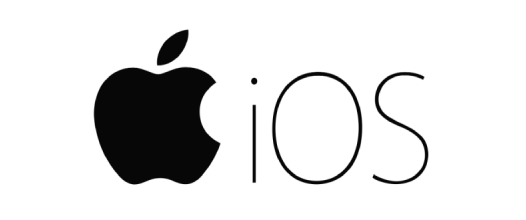
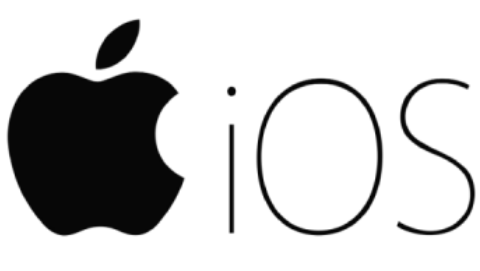
minor improvments

Changed region(s): [[0.0, 0.0545, 0.4375, 0.8727], [0.4688, 0.2727, 1.0, 0.8727], [0.4688, 0.3, 0.5, 0.3818]]

diff --git a/keynote_speakers.md b/keynote_speakers.md
@@ -15,7 +15,7 @@ group: Palestrantes convidados
     <td> 
         <strong> Palestra: </strong> <br> 
         <strong> Data: </strong> 2020-03-(a definir) <br> 
-        <a href="https://ce.berkeley.edu/people/faculty/soga"><img src="{{site.baseurl}}/images/speakers/Kenichi.jpg" style="height:90px;margin:15px 15px 15px 0px" title="Kenichi Soga " alt="Kenichi Soga"> </a> <strong>Kenichi Soga </strong>  <font color="#a9a9a9"> UC, Berkeley </font><br> 
+        <a href="https://ce.berkeley.edu/people/faculty/soga"><img src="{{site.baseurl}}/images/speakers/Kenichi.jpg" style="width:90px;margin:15px 15px 15px 0px" title="Kenichi Soga " alt="Kenichi Soga"> </a> <strong>Kenichi Soga </strong>  <font color="#a9a9a9"> UC, Berkeley </font><br> 
         <font color="#a9a9a9"> <a href="https://drive.google.com/open?id=17E5X7P_LzwwvHk2XWMrx4c5rMhaS4wp8">Biografia</a></font>   
     </td>
   </tr>
@@ -24,7 +24,7 @@ group: Palestrantes convidados
     <td> 
       <strong> Palestra: </strong> <br> 
       <strong> Data: </strong> 2020-03-(a definir) <br>  
-      <img src="{{site.baseurl}}/images/speakers/Keynote-speaker-icon.png" style="height:90px;margin:15px 15px 15px 0px" title="Luís de la Torre " alt="Luís de la Torre"> <strong> Luís de la Torre  </strong>  <font color="#a9a9a9"> IBERDROLA </font><br>
+      <img src="{{site.baseurl}}/images/speakers/Keynote-speaker-icon.png" style="width:90px;margin:15px 15px 15px 0px" title="Luís de la Torre " alt="Luís de la Torre"> <strong> Luís de la Torre  </strong>  <font color="#a9a9a9"> IBERDROLA </font><br>
       <font color="#a9a9a9"> <a href="    ">Biografia</a></font>   
     </td>
   </tr>
@@ -33,7 +33,7 @@ group: Palestrantes convidados
   <td> 
       <strong> Palestra: </strong> <br> 
       <strong> Data: </strong> 2020-03-(a definir) <br>  
-      <img src="{{site.baseurl}}/images/speakers/Marcos_Arroyo.jpg" style="height:90px;margin:15px 15px 15px 0px" title="Marcos Arroyo " alt="Marcos Arroyo"> <strong> Marcos Arroyo  </strong>  <font color="#a9a9a9"> UP Catalunya </font><br>
+      <img src="{{site.baseurl}}/images/speakers/Marcos_Arroyo.jpg" style="width:90px;margin:15px 15px 15px 0px" title="Marcos Arroyo " alt="Marcos Arroyo"> <strong> Marcos Arroyo  </strong>  <font color="#a9a9a9"> UP Catalunya </font><br>
       <font color="#a9a9a9"> <a href="https://drive.google.com/file/d/1MMt5d0vYDuVGDL0NV7MOQa_sIbHLXkRv/view?usp=sharing">Biografia</a> </font> <br>   
     </td>
   </tr>
@@ -42,7 +42,7 @@ group: Palestrantes convidados
     <td> 
       <strong> Palestra: </strong> <br> 
       <strong> Data: </strong> 2020-03-(a definir) <br>  
-      <img src="{{site.baseurl}}/images/speakers/Keynote-speaker-icon.png" style="height:90px;margin:15px 15px 15px 0px" title="Victor Correia " alt="Victor Correia"> <strong> Victor Correia  </strong>  <font color="#a9a9a9"> APG </font><br>
+      <img src="{{site.baseurl}}/images/speakers/Keynote-speaker-icon.png" style="width:90px;margin:15px 15px 15px 0px" title="Victor Correia " alt="Victor Correia"> <strong> Victor Correia  </strong>  <font color="#a9a9a9"> APG </font><br>
       <font color="#a9a9a9"> <a href="">Biografia</a> </font> <br>   
     </td>  
     </tr>
@@ -60,7 +60,7 @@ group: Palestrantes convidados
     <td> 
      <strong> Palestra: </strong> Segurança de Barragens <br>
      <strong> Data: </strong> 2020-03-04 <br> 
-     <a href="https://anebrasil.org.br/membros/alberto-de-sampaio-ferraz-jardim-sayao/"> <img src="{{site.baseurl}}/images/speakers/sayao.jpg" style="height:90px;margin:15px 15px 15px 0px" title="Alberto Sayão " alt="Alberto Sayão"> </a>
+     <a href="https://anebrasil.org.br/membros/alberto-de-sampaio-ferraz-jardim-sayao/"> <img src="{{site.baseurl}}/images/speakers/sayao.jpg" style="width:90px;margin:15px 15px 15px 0px" title="Alberto Sayão " alt="Alberto Sayão"> </a>
      <strong>Alberto Sayão</strong>  
      <font color="#a9a9a9"> PUC <br>  <strong><a href="https://drive.google.com/open?id=1oaUzyAXoqYP9BH5NkatXpqAjySjcqIvJ">Biografia</a></strong></font> 
     </td>
@@ -71,7 +71,7 @@ group: Palestrantes convidados
   <strong> Palestra: </strong> Risco sísmico no Vale do Tejo Inferior: resposta de sítio em solos liquidificáveis<br> 
   <strong> Data: </strong> 2020-03-04 <br> 
 
-  <a href="https://www.cienciavitae.pt/7818-C055-1DEC"><img src="{{site.baseurl}}/images/speakers/viana_fonseca.jpg" style="height:90px;margin:15px 15px 15px 0px" title="António Viana da Fonseca " alt="António Viana da Fonseca"> </a> 
+  <a href="https://www.cienciavitae.pt/7818-C055-1DEC"><img src="{{site.baseurl}}/images/speakers/viana_fonseca.jpg" style="width:90px;margin:15px 15px 15px 0px" title="António Viana da Fonseca " alt="António Viana da Fonseca"> </a> 
   
   <strong>António Viana da Fonseca  </strong>  <font color="#a9a9a9"> FEUP <br> 
 
@@ -87,7 +87,7 @@ group: Palestrantes convidados
   <strong> Data: </strong> 2020-03-04 <br> 
 
   
-  <a href="http://www.lnec.pt/geotecnia/pt/equipa/joao-bile-serra/"><img src="{{site.baseurl}}/images/speakers/biles.jpg" style="height:90px;margin:15px 15px 15px 0px" title="João Bilé Serra " alt="João Bilé Serra"> </a>
+  <a href="http://www.lnec.pt/geotecnia/pt/equipa/joao-bile-serra/"><img src="{{site.baseurl}}/images/speakers/biles.jpg" style="width:90px;margin:15px 15px 15px 0px" title="João Bilé Serra " alt="João Bilé Serra"> </a>
   
   <strong>João Bilé Serra  </strong>  <font color="#a9a9a9"> LNEC <br>
   
@@ -102,7 +102,7 @@ group: Palestrantes convidados
   <strong> Data: </strong> 2020-03-04 <br> 
 
   
-  <a href="https://www.escavador.com/sobre/7750903/roberto-quental-coutinho"><img src="{{site.baseurl}}/images/speakers/quental_coutinho.png" style="height:90px;margin:15px 15px 15px 0px" title="Roberto Quental Coutinho " alt="Roberto Quental Coutinho"> </a>
+  <a href="https://www.escavador.com/sobre/7750903/roberto-quental-coutinho"><img src="{{site.baseurl}}/images/speakers/quental_coutinho.png" style="width:90px;margin:15px 15px 15px 0px" title="Roberto Quental Coutinho " alt="Roberto Quental Coutinho"> </a>
   
   <strong>Roberto Quental Coutinho  </strong>  <font color="#a9a9a9"> UFPE <br>
   

diff --git a/mobileApp.md b/mobileApp.md
@@ -25,15 +25,15 @@ para que possa tirar o máximo proveito do evento.
   <tbody>
     <tr >
       <td align="center"><img src="{{site.baseurl}}/images/mobApp/android.png" style="width:75%; max-width: 200px; height: auto" title="Android" alt="Android"> </td>
-      <td align="center"><img src="{{site.baseurl}}/images/mobApp/apple_iOS.png" style="width:95%; max-width: 270px; height: auto" title="iOS"  alt="iOS"> </td>
+      <td align="center"><img src="{{site.baseurl}}/images/mobApp/apple_iOS.png" style="width:75%; max-width: 200px; height: auto" title="iOS"  alt="iOS"> </td>
     </tr>
     <tr>
       <td align="center">  <a href="https://play.google.com/store/apps/details?id=org.ricardos.cng2020"><img src="{{site.baseurl}}/images/mobApp/qr-code_google.png" style="width:85%; max-width: 230px; height: auto" title="QR Google Play" alt="QR Google Play"> </a></td>
       <td align="center">  <a href="https://apps.apple.com/gb/app/17cng2020/id1495678915"><img  src="{{site.baseurl}}/images/mobApp/qr-code_apple.png" style="width:85%; max-width: 230px; height: auto" title="QR App Store" alt="QR App Store"> </a></td>
     </tr>
     <tr>
-      <td align="center">  <a href="https://play.google.com/store/apps/details?id=org.ricardos.cng2020"><img src="{{site.baseurl}}/images/mobApp/googleplay.png" style="width:89%; max-width: 250px; height: auto" title="Google Play" alt="Google Play"> </a></td>
-      <td align="center">  <a href="https://apps.apple.com/gb/app/17cng2020/id1495678915"><img  src="{{site.baseurl}}/images/mobApp/appstore.png" style="width:80%; max-width: 230px; height: auto" title="App Store" alt="App Store"> </a></td>
+      <td align="center">  <a href="https://play.google.com/store/apps/details?id=org.ricardos.cng2020"><img src="{{site.baseurl}}/images/mobApp/googleplay.png" style="width:80%; max-width: 250px; height: auto" title="Google Play" alt="Google Play"> </a></td>
+      <td align="center">  <a href="https://apps.apple.com/gb/app/17cng2020/id1495678915"><img  src="{{site.baseurl}}/images/mobApp/appstore.png"                style="width:80%; max-width: 250px; height: auto" title="App Store" alt="App Store"> </a></td>
     </tr>
 
   </tbody>
